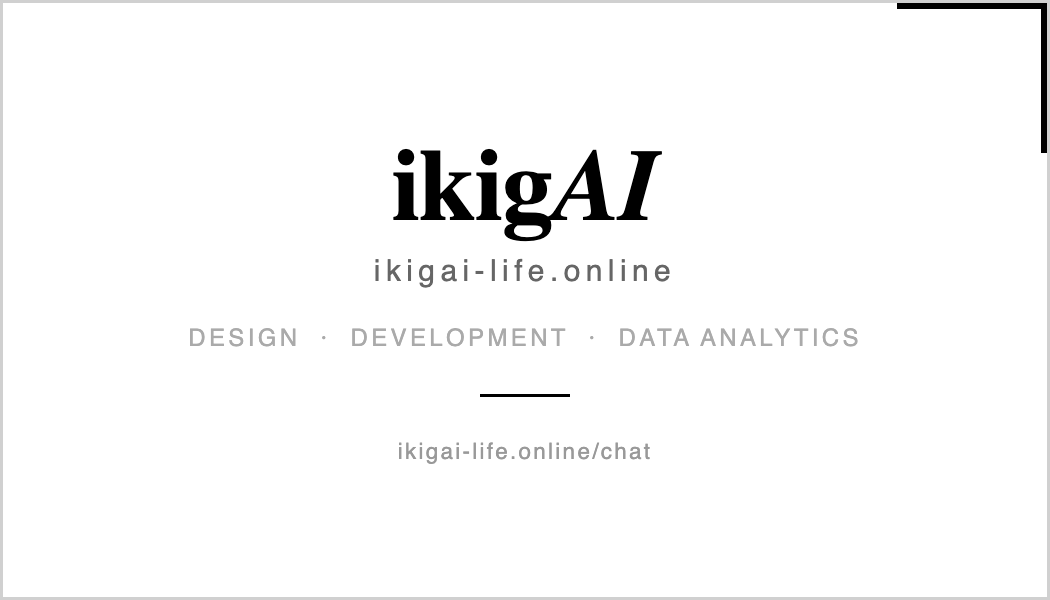
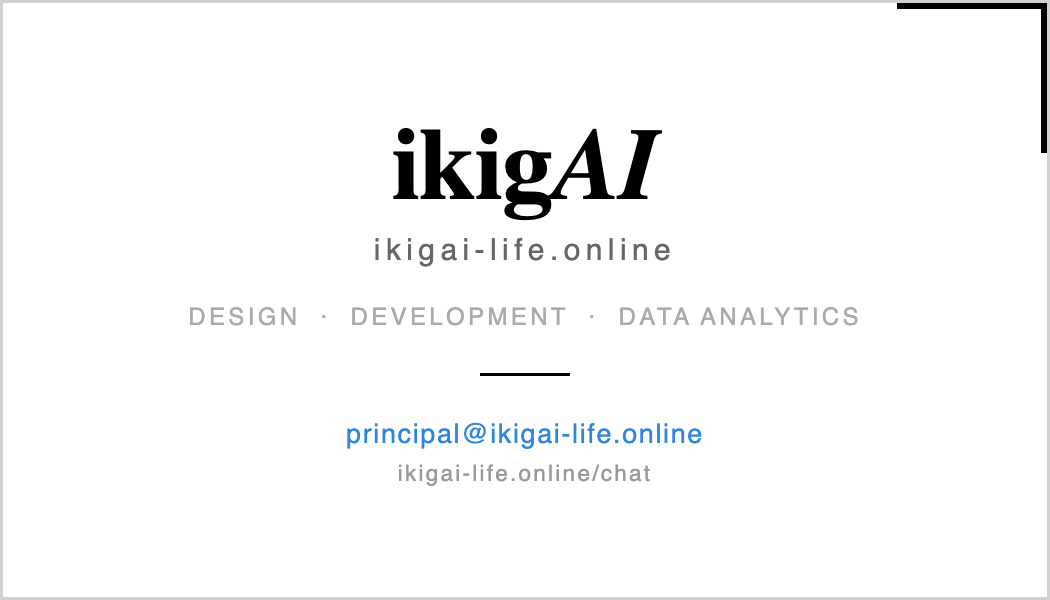
Cards show image + email popup; email→principal@; footer & contact cleanup
- /azlan /sharil /mubarak render the card image; tapping it (or Email) opens
  the Contact-form popup that emails [email redacted].
- Contact form + settings now send to [email redacted].
- Business-card back image now carries [email redacted].
- Contact page: removed redundant WhatsApp/Email buttons (floating buttons +
  form remain).
- Footer: removed WhatsApp/Email buttons (Explore nav + address kept).
- Whole site verified mobile-responsive (no horizontal overflow on any route).
- email.png (mail DNS setup) gitignored — not for the public repo.

diff --git a/packages/web/src/pages/ikagai/CardPage.tsx b/packages/web/src/pages/ikagai/CardPage.tsx
@@ -1,6 +1,7 @@
-import React from 'react'
-import { Mail, MessageCircle, Download } from 'lucide-react'
+import React, { useState } from 'react'
+import { Mail, MessageCircle, Download, X } from 'lucide-react'
 import { usePageData } from '@/hooks/usePageData'
+import { FormBlock } from '@/blocks/Form/Component'
 import { SEO } from './_brand'
 
 const EMAIL = '[email redacted]'
@@ -34,6 +35,8 @@ export const CardPage: React.FC = () => {
   const data = usePageData()
   const slug: string | undefined = data?.slug
   const person = slug ? PEOPLE[slug] : undefined
+  const form = data?.form
+  const [open, setOpen] = useState(false)
 
   if (!person) {
     return (
@@ -52,22 +55,27 @@ export const CardPage: React.FC = () => {
       <meta property="og:image" content={`https://ikigai-life.online${person.img}`} />
       <meta name="twitter:card" content="summary_large_image" />
 
-      <div className="mx-auto max-w-[540px] px-4 py-10 flex flex-col items-center gap-6">
-        {/* Business card — click anywhere to email */}
-        <a href={`mailto:${EMAIL}`} aria-label={`Email ${person.name}`} className="block w-full">
+      <div className="mx-auto max-w-[540px] px-4 py-8 sm:py-10 flex flex-col items-center gap-5 sm:gap-6">
+        {/* Business card — tap to open the message popup */}
+        <button
+          type="button"
+          onClick={() => setOpen(true)}
+          aria-label={`Message ${person.name}`}
+          className="block w-full rounded-2xl focus:outline-none focus-visible:ring-2 focus-visible:ring-offset-2"
+        >
           <img
             src={person.img}
             alt={`${person.name} — ikigAI business card`}
             className="w-full rounded-2xl shadow-2xl"
             style={{ border: '1px solid var(--line)' }}
           />
-        </a>
+        </button>
 
         {/* Actions */}
         <div className="w-full grid grid-cols-1 sm:grid-cols-3 gap-3">
-          <a href={`mailto:${EMAIL}`} className={btn} style={{ background: 'var(--blue)', color: '#fff' }}>
+          <button type="button" onClick={() => setOpen(true)} className={btn} style={{ background: 'var(--blue)', color: '#fff' }}>
             <Mail size={18} /> Email
-          </a>
+          </button>
           <a href={`https://wa.me/${wa}`} target="_blank" rel="noopener noreferrer" className={btn} style={{ background: 'var(--green2)', color: '#fff' }}>
             <MessageCircle size={18} /> WhatsApp
           </a>
@@ -76,18 +84,50 @@ export const CardPage: React.FC = () => {
           </a>
         </div>
 
-        <a href={`mailto:${EMAIL}`} className="text-sm font-semibold" style={{ color: 'var(--blue)' }}>
-          {EMAIL}
-        </a>
-
-        {/* Shared back */}
+        {/* Shared back (carries the email address) */}
         <img
           src="/cards/back.png"
-          alt="ikigAI"
-          className="w-2/3 rounded-xl mt-2"
+          alt="ikigAI — [email redacted]"
+          className="w-full sm:w-2/3 rounded-xl mt-2"
           style={{ border: '1px solid var(--line)', opacity: 0.95 }}
         />
       </div>
+
+      {/* Message popup — emails [email redacted] via the site Contact form */}
+      {open && (
+        <div
+          className="fixed inset-0 z-[60] flex items-center justify-center p-4"
+          style={{ background: 'rgba(11,44,94,0.55)' }}
+          onClick={() => setOpen(false)}
+          role="dialog"
+          aria-modal="true"
+          aria-label={`Message ${person.name}`}
+        >
+          <div
+            className="relative w-full max-w-[480px] rounded-2xl shadow-2xl bg-white max-h-[88vh] overflow-y-auto"
+            style={{ border: '1px solid var(--line)' }}
+            onClick={(e) => e.stopPropagation()}
+          >
+            <div
+              className="sticky top-0 px-5 py-4 flex items-center justify-between text-white"
+              style={{ background: 'linear-gradient(135deg, var(--navy), var(--green2))' }}
+            >
+              <span className="font-extrabold text-lg">Message {person.name}</span>
+              <button onClick={() => setOpen(false)} aria-label="Close" className="hover:opacity-80"><X size={20} /></button>
+            </div>
+            <div className="p-5">
+              {form ? (
+                <FormBlock enableIntro={false} form={form} />
+              ) : (
+                <p className="text-sm" style={{ color: 'var(--mute)' }}>
+                  Prefer email? Write to us at{' '}
+                  <a href={`mailto:${EMAIL}`} style={{ color: 'var(--blue)', fontWeight: 700 }}>{EMAIL}</a>.
+                </p>
+              )}
+            </div>
+          </div>
+        </div>
+      )}
     </article>
   )
 }

diff --git a/packages/web/src/pages/ikagai/ContactPage.tsx b/packages/web/src/pages/ikagai/ContactPage.tsx
@@ -2,7 +2,7 @@ import React from 'react'
 import { usePageData } from '@/hooks/usePageData'
 import { FormBlock } from '@/blocks/Form/Component'
 import { SEO, Hero, Section, Card, Eyebrow } from './_brand'
-import { Mail, MessageCircle, Linkedin, MapPin } from 'lucide-react'
+import { Linkedin, MapPin } from 'lucide-react'
 
 export const OFFICE_ADDRESS = 'Menara Maxis, 26th & 36th Floor, City Centre, 50088 Kuala Lumpur, Malaysia'
 
@@ -10,7 +10,6 @@ export const ContactPage: React.FC = () => {
   const data = usePageData()
   const s = data?.settings || {}
   const form = data?.form
-  const wa = s.whatsappNumber ? `https://wa.me/${String(s.whatsappNumber).replace(/[^0-9]/g, '')}` : null
 
   return (
     <article>
@@ -31,24 +30,8 @@ export const ContactPage: React.FC = () => {
           <div>
             <Eyebrow>Reach us directly</Eyebrow>
             <p className="mt-4 text-sm" style={{ color: 'var(--mute)' }}>
-              Tap a button below to reach us — or use the floating WhatsApp and Email buttons on any page.
+              Fill in the form, or use the floating WhatsApp and Email buttons on any page.
             </p>
-            <div className="mt-4 flex flex-wrap gap-3">
-              {wa && (
-                <a href={wa} target="_blank" rel="noopener noreferrer"
-                  className="inline-flex items-center gap-2 px-5 py-3 rounded-lg text-white text-sm font-bold hover:opacity-90"
-                  style={{ background: 'var(--green2)' }}>
-                  <MessageCircle size={18} /> Message us on WhatsApp
-                </a>
-              )}
-              {s.contactEmail && (
-                <a href={`mailto:${s.contactEmail}`}
-                  className="inline-flex items-center gap-2 px-5 py-3 rounded-lg text-white text-sm font-bold hover:opacity-90"
-                  style={{ background: 'var(--blue)' }}>
-                  <Mail size={18} /> Email us
-                </a>
-              )}
-            </div>
             <div className="mt-4 grid gap-3">
               <Card>
                 <div className="flex items-start gap-3">
@@ -79,8 +62,8 @@ export const ContactPage: React.FC = () => {
                 <Card>
                   <p className="text-sm" style={{ color: 'var(--mute)' }}>
                     Prefer email? Write to us at{' '}
-                    <a href={`mailto:${s.contactEmail || '[email redacted]'}`} style={{ color: 'var(--blue)', fontWeight: 700 }}>
-                      {s.contactEmail || '[email redacted]'}
+                    <a href={`mailto:${s.contactEmail || '[email redacted]'}`} style={{ color: 'var(--blue)', fontWeight: 700 }}>
+                      {s.contactEmail || '[email redacted]'}
                     </a>{' '}
                     and we’ll reply within one business day.
                   </p>

diff --git a/packages/web/src/Footer/FooterClient.tsx b/packages/web/src/Footer/FooterClient.tsx
@@ -16,8 +16,6 @@ interface FooterClientProps {
 export const FooterClient: React.FC<FooterClientProps> = ({ footer, settings }) => {
   const navItems = footer?.navItems || []
   const socialLinks = settings?.socialLinks || []
-  const email = settings?.contactEmail
-  const wa = settings?.whatsappNumber
 
   return (
     <footer className="mt-auto text-white" style={{ background: 'var(--navy)' }}>
@@ -54,22 +52,6 @@ export const FooterClient: React.FC<FooterClientProps> = ({ footer, settings }) 
 
         <div className="flex flex-col gap-3">
           <h3 className="text-base font-bold">Get in touch</h3>
-          <div className="flex gap-3">
-            {wa && (
-              <a href={`https://wa.me/${String(wa).replace(/[^0-9]/g, '')}`} target="_blank" rel="noopener noreferrer"
-                className="inline-flex items-center gap-2 px-3 py-2 rounded-lg text-sm font-bold text-white hover:opacity-90"
-                style={{ background: 'var(--green2)' }} aria-label="Message us on WhatsApp">
-                WhatsApp
-              </a>
-            )}
-            {email && (
-              <a href={`mailto:${email}`}
-                className="inline-flex items-center gap-2 px-3 py-2 rounded-lg text-sm font-bold text-white hover:opacity-90"
-                style={{ background: 'var(--blue)' }} aria-label="Email us">
-                Email
-              </a>
-            )}
-          </div>
           <p className="text-sm" style={{ color: '#9fb0c6' }}>{OFFICE_ADDRESS}</p>
           {socialLinks.length > 0 && (
             <div className="flex gap-4 mt-1">

diff --git a/packages/cms/src/seed-ikagai.ts b/packages/cms/src/seed-ikagai.ts
@@ -69,6 +69,16 @@ const contactForm = {
     { name: 'company', blockName: 'company', blockType: 'text' as const, label: 'Company / property', required: false, width: 100 },
     { name: 'message', blockName: 'message', blockType: 'textarea' as const, label: 'What would you like to improve?', required: true, width: 100 },
   ],
+  // Notification email on submit. emailFrom must be the SMTP-authenticated
+  // sender (net1io); emailTo is where enquiries land.
+  emails: [
+    {
+      emailTo: '[email redacted]',
+      emailFrom: '"ikigAI" <[email redacted]>',
+      subject: 'New enquiry — ikigai-life.online',
+      message: lexical('New enquiry from {{full-name}} ({{email}}) — {{company}}. Message: {{message}}'),
+    },
+  ],
 }
 
 async function run() {
@@ -84,7 +94,7 @@ async function run() {
     slug: 'settings',
     data: {
       whatsappNumber: '+601120518366',
-      contactEmail: '[email redacted]',
+      contactEmail: '[email redacted]',
       contactEmail2: '[email redacted]',
       socialLinks: [],
     } as any,

diff --git a/packages/web/src/pages/ikagai/ChatPage.tsx b/packages/web/src/pages/ikagai/ChatPage.tsx
@@ -73,10 +73,10 @@ export const ChatPage: React.FC = () => {
                 <p className="text-sm" style={{ color: 'var(--mute)' }}>
                   Prefer email? Write to us at{' '}
                   <a
-                    href={`mailto:${s.contactEmail || '[email redacted]'}`}
+                    href={`mailto:${s.contactEmail || '[email redacted]'}`}
                     style={{ color: 'var(--blue)', fontWeight: 700 }}
                   >
-                    {s.contactEmail || '[email redacted]'}
+                    {s.contactEmail || '[email redacted]'}
                   </a>{' '}
                   and we’ll reply within one business day.
                 </p>

diff --git a/docs/biz-card/ikagai-business-card.html b/docs/biz-card/ikagai-business-card.html
@@ -292,7 +292,8 @@
     <div class="brand-url" style="font-size:10px; letter-spacing:0.18em; color:#666; margin-top:5px;">ikigai-life.online</div>
     <div style="font-size:8px; color:#aaa; letter-spacing:0.14em; margin-top:12px; text-transform:uppercase;">Design &nbsp;·&nbsp; Development &nbsp;·&nbsp; Data Analytics</div>
     <div style="width:30px; height:1px; background:#000; margin:14px auto;"></div>
-    <div style="font-size:7.5px; color:#999; letter-spacing:0.1em;">ikigai-life.online/chat</div>
+    <div style="font-size:9px; color:#2E86DE; letter-spacing:0.06em; font-weight:500;">[email redacted]</div>
+    <div style="font-size:7.5px; color:#999; letter-spacing:0.1em; margin-top:4px;">ikigai-life.online/chat</div>
   </div>
 </div>
 

diff --git a/packages/web/src/data-loader.ts b/packages/web/src/data-loader.ts
@@ -51,7 +51,7 @@ export async function fetchPageData(url: string, options: FetchOptions) {
           slug === 'about'
             ? fetchFromPayload('/api/team?limit=20&sort=order&depth=1', payloadUrl)
             : Promise.resolve(null),
-          CONTACT_FORM_ROUTES.includes(slug)
+          [...CONTACT_FORM_ROUTES, ...CARD_ROUTES].includes(slug)
             ? fetchFromPayload('/api/forms?where[title][equals]=Contact&limit=1&depth=1', payloadUrl)
             : Promise.resolve(null),
         ])